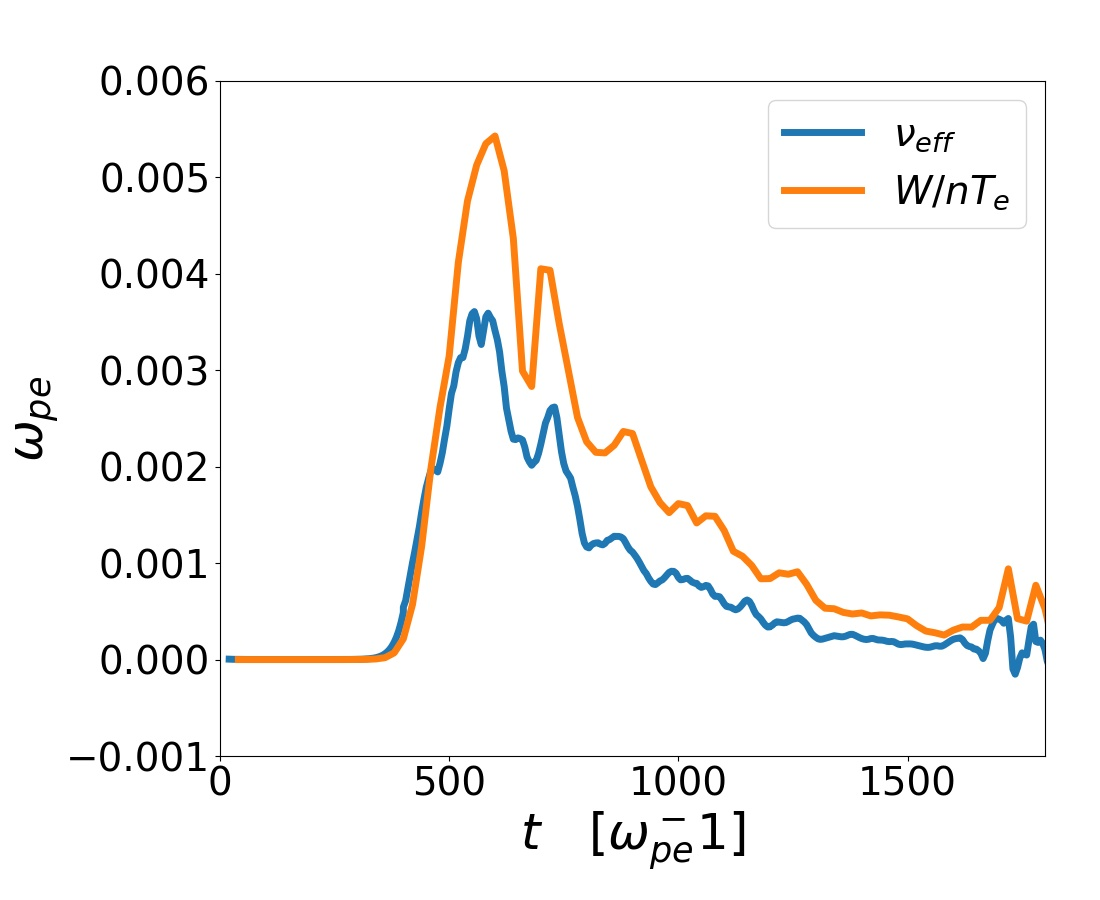
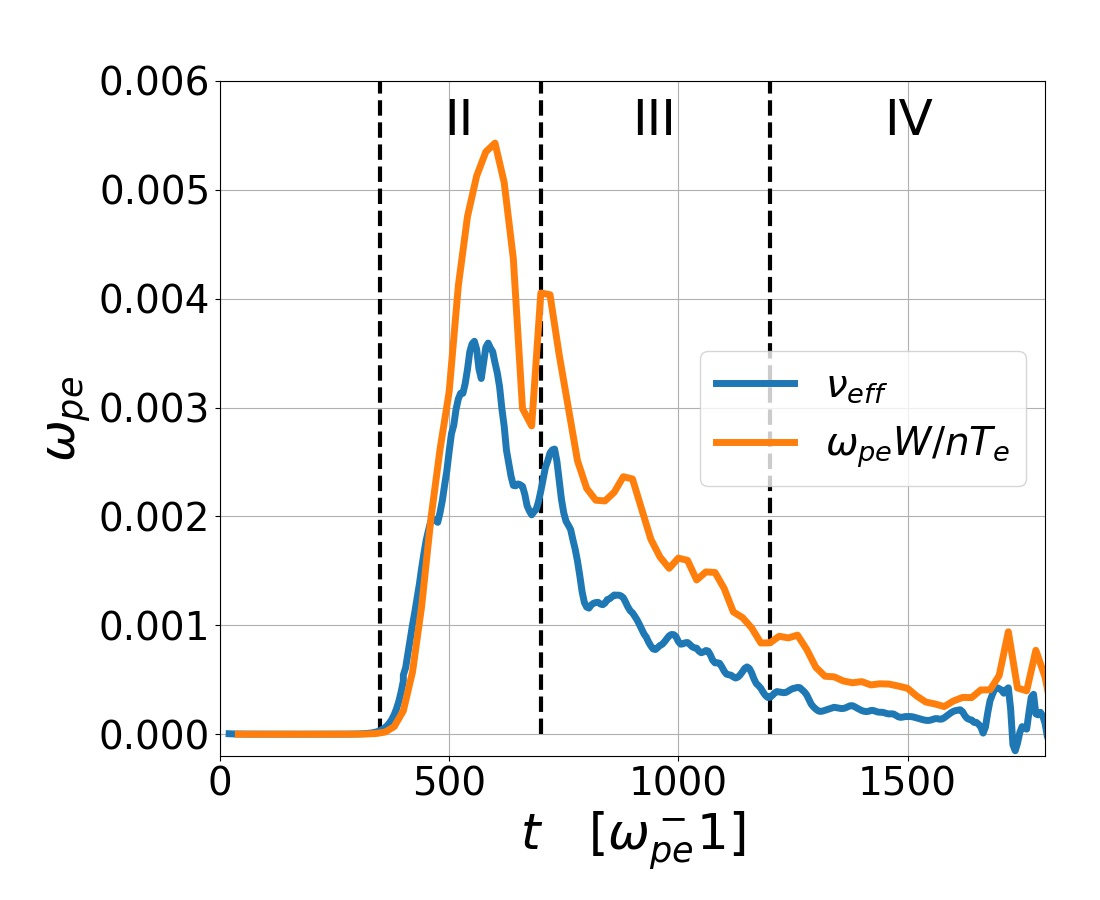
update

diff --git a/Diagnostics/local/Cori/time_trace.py b/Diagnostics/local/Cori/time_trace.py
@@ -1,5 +1,7 @@
 import matplotlib.pyplot as plt
 import numpy as np
+import matplotlib
+matplotlib.use('TkAgg')
 
 
 fieldEnergy4 = np.loadtxt('./Cori/mass25/rescheck/4/saved_data/fieldEnergy.txt')
@@ -23,24 +25,24 @@ for i in range(np.size(current4)-1):
 for i in range(np.size(current4)-1):
     nu_eff4[i] = (0.00005 - dJdt4[i]) / current4[i]
 
-fig      = plt.figure(figsize=(12.5,7.5))
-ax      = fig.add_axes([0.16, 0.16, 0.82, 0.75])
-#ax.set_title("perturbed electric field energy",fontsize=16)
-ax.plot(time_fieldEnergy4,fieldEnergy4,label='temp-50',linewidth=5)
-ax.plot(time_fieldEnergy+10,fieldEnergy,label='temp-200',linewidth=5)
-ax.set_xlabel(r'$t \quad [\omega_{pe}^-1]$',fontsize=36)
-ax.set_ylabel(r'$\epsilon_0 \int (|\delta E_z|^2 + |\delta E_y|^2) dydz / n_0 T_{e0}$',fontsize=24,color='red')
-# ax.vlines(350,0,1e-5,linestyle='--',linewidth=2,color='black')
-# ax.vlines(750,0,1e-5,linestyle='--',linewidth=2,color='black')
-# ax.vlines(1100,0,1e-5,linestyle='--',linewidth=2,color='black')
-# ax.vlines(1800,0,1e-5,linestyle='--',linewidth=2,color='black')
-ax.set_yscale('log')
-ax.set_xlim(0,700)
-ax.set_ylim(1e-11,1e-5)
-ax.tick_params(labelsize = 28)
-ax.legend(fontsize=28)
-#plt.savefig('./Cori/figure_temp/field_energy.jpg')
-plt.show()
+# fig      = plt.figure(figsize=(12.5,7.5))
+# ax      = fig.add_axes([0.16, 0.16, 0.82, 0.75])
+# #ax.set_title("perturbed electric field energy",fontsize=16)
+# ax.plot(time_fieldEnergy4,fieldEnergy4,label='temp-50',linewidth=5)
+# ax.plot(time_fieldEnergy+10,fieldEnergy,label='temp-200',linewidth=5)
+# ax.set_xlabel(r'$t \quad [\omega_{pe}^-1]$',fontsize=36)
+# ax.set_ylabel(r'$\epsilon_0 \int (|\delta E_z|^2 + |\delta E_y|^2) dydz / n_0 T_{e0}$',fontsize=24,color='red')
+# # ax.vlines(350,0,1e-5,linestyle='--',linewidth=2,color='black')
+# # ax.vlines(750,0,1e-5,linestyle='--',linewidth=2,color='black')
+# # ax.vlines(1100,0,1e-5,linestyle='--',linewidth=2,color='black')
+# # ax.vlines(1800,0,1e-5,linestyle='--',linewidth=2,color='black')
+# ax.set_yscale('log')
+# ax.set_xlim(0,700)
+# ax.set_ylim(1e-11,1e-5)
+# ax.tick_params(labelsize = 28)
+# ax.legend(fontsize=28)
+# #plt.savefig('./Cori/figure_temp/field_energy.jpg')
+# plt.show()
 # ax.legend(fontsize=14)
 # plt.savefig('./Cori/figure_temp/field_energy.jpg')
 # plt.clf()
@@ -115,42 +117,62 @@ plt.show()
 # plt.savefig('./Cori/figure_temp/current.jpg')
 # plt.clf()
 
-fig      = plt.figure(figsize=(11.0,9.0))
-ax      = fig.add_axes([0.20, 0.16, 0.75, 0.75])
-#ax.set_title("perturbed electric field energy",fontsize=16)
-ax.plot(time_current4[4:],nu_eff4[3:],label=r'$\nu_{eff}$',linewidth=5)
-ax.plot(time_fieldEnergy4[2:],fieldEnergy4[2:]/0.0008,label=r'$W/nT_e$',linewidth=5)
-ax.set_xlabel(r'$t \quad [\omega_{pe}^-1]$',fontsize=36)
-ax.set_ylabel(r'$\omega_{pe}$',fontsize=36)
-ax.tick_params(labelsize = 28)
-ax.legend(fontsize=28)
-ax.set_xlim(0,1800)
-ax.set_ylim(-0.001,0.006)
-#plt.savefig('./Cori/figure_temp/field_energy.jpg')
-plt.show()
+# fig      = plt.figure(figsize=(11.0,9.0))
+# ax      = fig.add_axes([0.20, 0.16, 0.75, 0.75])
+# #ax.set_title("perturbed electric field energy",fontsize=16)
+# ax.plot(time_current4[4:],nu_eff4[3:],label=r'$\nu_{eff}$',linewidth=5)
+# ax.plot(time_fieldEnergy4[2:],fieldEnergy4[2:]/0.0008,label=r'$\omega_{pe} W/nT_e$',linewidth=5)
+# ax.set_xlabel(r'$t \quad [\omega_{pe}^-1]$',fontsize=36)
+# ax.set_ylabel(r'$\omega_{pe}$',fontsize=36)
+# ax.tick_params(labelsize = 28)
+# ax.legend(fontsize=28,loc='center right')
+# ax.set_xlim(0,1800)
+# ax.set_ylim(-0.0002,0.006)
+# ax.grid()
+# ax.vlines(700,0,0.006,linestyles='--',linewidth=3)
+# ax.vlines(1200,0,0.006,linestyles='--',linewidth=3)
+# ax.vlines(350,0,0.006,linestyles='--',linewidth=3)
+# ax.text(490,0.0055,"II",fontsize=36)
+# ax.text(900,0.0055,"III",fontsize=36)
+# ax.text(1450,0.0055,"IV",fontsize=36)
+# plt.savefig('./Cori/figure_temp/nu_eff.jpg')
+
+# #plt.savefig('./Cori/figure_temp/field_energy.jpg')
+# plt.show()
 
 
 ###########################################################
 
-# fig      = plt.figure(figsize=(11.0,9.0))
-# ax      = fig.add_axes([0.12, 0.12, 0.75, 0.75])
-# ax2 = ax.twinx()
+fig      = plt.figure(figsize=(11.0,9.0))
+ax      = fig.add_axes([0.12, 0.16, 0.75, 0.80])
+ax2 = ax.twinx()
 
-# ax.plot(time_Elctemp4[151:400],Elctemp4[151:400]/Elctemp4[0],label='electron',linewidth=5,color='black',linestyle='-.')
-# ax.plot(time_Iontemp4[151:400],Iontemp4[151:400]/Iontemp4[0],label='ion',linewidth=5,color='black',linestyle='--')
-# #ax2.plot(time_Iontemp4[70:95],Elctemp4[70:95]/Iontemp4[70:95],linewidth=5,color='blue')
-# ax2.plot(time_Iontemp4[151:400],Elctemp4[151:400]/Iontemp4[151:400],linewidth=5,color='blue')
-# ax.set_xlabel(r'$t \quad [\omega_{pe}^-1]$',fontsize=32)
-# ax.set_ylabel(r'$T/T_{0}$',fontsize=36,color='black')
-# ax2.set_ylabel(r'$T_e/T_i$',fontsize=36,color='blue')
-# # ax.set_xlim(0,2600)
-# # ax.set_ylim(0,30)
-# ax.set_xlim(750,1800)
-# ax.set_ylim(0,18)
-# ax.tick_params(labelsize = 28)
-# ax2.tick_params(labelsize = 24,colors='blue')
-# #ax.legend(fontsize=30,loc='center right',bbox_to_anchor=(1.0, 0.3))
-# ax.legend(fontsize=30,loc='lower left')
-# #plt.savefig('./Cori/figure_temp/temp.jpg')
-# plt.show()
-# plt.clf()
+ax.plot(time_Elctemp4[:],Elctemp4[:]/Elctemp4[0],label='electron',linewidth=5,color='red',linestyle='-')
+ax.plot(time_Iontemp4[:],Iontemp4[:]/Iontemp4[0],label='ion',linewidth=5,color='red',linestyle='--')
+#ax2.plot(time_Iontemp4[70:95],Elctemp4[70:95]/Iontemp4[70:95],linewidth=5,color='blue')
+ax2.plot(time_Iontemp4[:],Elctemp4[:]/Iontemp4[:],linewidth=5,color='blue')
+ax.set_xlabel(r'$t \quad [\omega_{pe}^-1]$',fontsize=32)
+ax.set_ylabel(r'$T/T_{0}$',fontsize=36,color='red')
+ax2.set_ylabel(r'$T_e/T_i$',fontsize=36,color='blue')
+ax.set_xlim(0,2600)
+ax.set_ylim(0,30)
+ax.vlines(700,0,30,linestyles='--',linewidth=3)
+ax.vlines(1200,0,30,linestyles='--',linewidth=3)
+ax.vlines(350,0,30,linestyles='--',linewidth=3)
+ax.vlines(1850,0,30,linestyles='--',linewidth=3)
+ax.text(490,27.5,"II",fontsize=36)
+ax.text(900,27.5,"III",fontsize=36)
+ax.text(1450,27.5,"IV",fontsize=36)
+ax.text(2150,27.5,"V",fontsize=36)
+
+#ax.set_xlim(750,1800)
+#ax.set_ylim(0,18)
+ax.tick_params(labelsize = 28)
+ax.tick_params(axis='y',colors='red')
+ax2.tick_params(labelsize = 24,colors='blue')
+ax.legend(fontsize=30,loc='center right',bbox_to_anchor=(1.0, 0.3))
+ax.grid()
+#ax.legend(fontsize=30,loc='lower left')
+plt.savefig('./Cori/figure_temp/temp.jpg')
+#plt.show()
+plt.clf()

diff --git a/Diagnostics/local/Cori/distribution_plot.py b/Diagnostics/local/Cori/distribution_plot.py
@@ -6,6 +6,7 @@ from scipy.interpolate import interp1d
 from scipy.optimize import curve_fit
 from scipy.special import gamma
 import matplotlib.ticker as ticker
+matplotlib.use('TkAgg')
 
 ElcGridPath = './Cori/mass25/rescheck/4/dist_function_save/elc_velocities.npz'
 IonGridPath = './Cori/mass25/rescheck/4/dist_function_save/ion_velocities.npz'
@@ -164,20 +165,28 @@ def fit_1d(fName,GridFile):
     # popt, pcov = curve_fit(kappa_maxwellian, v_z, f_e)
     # constructed_f_e = kappa_maxwellian(v_z,*popt)
 
-    #maxw1 = np.array([maxw(x,popt[0],popt[1],popt[2]) for x in v_z])
-    #maxw2 = np.array([maxw(x,popt[3],popt[4],popt[5]) for x in v_z])
+    maxw1 = np.array([maxw(x,popt[0],popt[1],popt[2]) for x in v_z])
+    maxw2 = np.array([maxw(x,popt[3],popt[4],popt[5]) for x in v_z])
+    
 
-    maxw1 = np.array([maxw(x,1.47,0.0246,0.00) for x in v_z])
-    maxw2 = np.array([maxw(x,1.25,0.02716,0.0444) for x in v_z])
+    # maxw1 = np.array([maxw(x,1.47,0.0246,0.00) for x in v_z])
+    # maxw2 = np.array([maxw(x,1.25,0.02716,0.0444) for x in v_z])
 
-    f_e2 = np.loadtxt('./Cori/mass25/rescheck/4/dist_function_save/1700.0_elc_1d.txt')
-    maxw3 = np.array([maxw(x,1.25,0.02716,0.0444+0.005) for x in v_z])
-    plt.plot(v_z,f_e2)
+    #f_e2 = np.loadtxt('./Cori/mass25/rescheck/4/dist_function_save/600.0_elc_1d.txt')
+    #maxw3 = np.array([maxw(x,1.25,0.02716,0.0444+0.005) for x in v_z])
+    fig      = plt.figure(figsize=(12.5,7.5))
+    fig.add_axes([0.1, 0.16, 0.8, 0.8])
+    plt.plot(v_z/0.02,f_e, linewidth=8,label=r'$F_e(v_z)(t=600)$')
+    #plt.vlines(0.005/0.02,0,50,color='black',linewidth=4, linestyles='--',label=r'$c_s$')
     #plt.plot(v_z,constructed_f_e,label='fit')
-    plt.plot(v_z,maxw1,label='1',linestyle='--')
-    plt.plot(v_z,maxw3,label='2',linestyle='--')
-    plt.plot(v_z,maxw3+maxw1,label='fit',linestyle='--')
-    plt.legend()
+    plt.plot(v_z/0.02,maxw1,label='bulk',linestyle='--',linewidth=5)
+    plt.plot(v_z/0.02,maxw2,label='tail',linestyle='--',linewidth=5)
+    plt.plot(v_z/0.02,maxw2+maxw1,label='bulk+tail',linestyle='--',linewidth=5)
+    plt.grid()
+    plt.xlim(-4,8)
+    plt.legend(fontsize=28,loc='upper right')
+    plt.xlabel(r'$v_z/v_{Te0}$',fontsize=28)
+    plt.tick_params(labelsize = 24)
     plt.show()
 
     print(popt)
@@ -194,28 +203,6 @@ def fit_1d(fName,GridFile):
     # plt.legend()
     # plt.show()
     return constructed_f_e, maxw1, maxw2
-    # if popt[2] < popt[5]:
-    #     print('==========Maxwell 1=========')
-    #     print("Norm:",popt[0])
-    #     print("Vte",popt[1])
-    #     print("Drift",popt[2])
-    #     print('==========Maxwell 2=========')
-    #     print("Norm:",popt[3])
-    #     print("Vte",popt[4])
-    #     print("Drift",popt[5])
-    #     print("")
-    #     print("ratio:",popt[3]/popt[0])
-    # else:
-    #     print('==========Maxwell 1=========')
-    #     print("Norm:",popt[3])
-    #     print("Vte",popt[4])
-    #     print("Drift",popt[5])
-    #     print('==========Maxwell 2=========')
-    #     print("Norm:",popt[0])
-    #     print("Vte",popt[1])
-    #     print("Drift",popt[2])
-    #     print("")
-    #     print("ratio:",popt[0]/popt[3])
 
 def fit_1d_t(fName,GridFile):
     def double_maxwellian(x,A1,B1,C1,A2,B2,C2):
@@ -356,11 +343,11 @@ if __name__ == '__main__':
     #new_1d('./Cori/mass25/rescheck/4/dist_function/1800.0_elc_2d.txt',ElcGridPath)
     #plot_1d_distribution('./Cori/mass25/rescheck/4/dist_function_save/1700.0_elc_1d.txt', ElcGridPath)
     #ion_main()
-    elc_main()
+    #elc_main()
 
     #popt = fit_1d('./Cori/mass25/rescheck/4/dist_function/650.0_elc_1d.txt',ElcGridPath)
-    #fit_1d('./Cori/mass25/rescheck/4/dist_function_save/1700.0_elc_1d.txt',ElcGridPath)
-    # fit_1d_t('./Cori/mass25/rescheck/4/dist_function_save/1800.0_elc_1d.txt',ElcGridPath)
+    fit_1d('./Cori/mass25/rescheck/4/dist_function_save/1800.0_elc_1d.txt',ElcGridPath)
+    fit_1d_t('./Cori/mass25/rescheck/4/dist_function_save/1800.0_elc_1d.txt',ElcGridPath)
     # fit_1d_t('./Cori/mass25/rescheck/4/dist_function/700.0_elc_1d.txt',ElcGridPath)
     # fit_1d_t('./Cori/mass25/rescheck/4/dist_function/750.0_elc_1d.txt',ElcGridPath)
     # fit_1d_t('./Cori/mass25/rescheck/4/dist_function/900.0_elc_1d.txt',ElcGridPath)

diff --git a/Diagnostics/local/Cori/field.py b/Diagnostics/local/Cori/field.py
@@ -135,13 +135,13 @@ def k_omega():
 
     #Ez1 = np.transpose(Ey[:800,:,12])
     #Ez1fft = np.fft.fftshift(np.fft.rfft2(Ez1))
-    Ez = np.transpose(Ez0[400:1200,:,0]) # 48 x 400
+    Ez = np.transpose(Ez0[3000:3600,:,0]) # 48 x 400
     Ezw = np.fft.rfft2(Ez) # 48 x 400
     Ezw2 = np.zeros_like(Ezw)
     for i in range(Ezw.shape[1]):
         Ezw2[:,i] = np.fft.fftshift(Ezw[:,i])
     absEzw = np.power(np.absolute(Ezw2),2)[:,:]  
-    omegas = np.fft.rfftfreq(800,d=(400)/(800-1)) * 2.0 * np.pi
+    omegas = np.fft.rfftfreq(600,d=(300)/(600-1)) * 2.0 * np.pi
     ks = np.linspace(-24,23,48)
 
     k_list_25 = 2*np.pi*np.array([0, 0.3183, 1,      2,      4,     6,    8,     10,    12,     16,     18])
@@ -149,7 +149,7 @@ def k_omega():
     omega_list_25 =     np.array([0, 0.00835,0.0261, 0.051,  0.0946,0.128,0.153, 0.1718,0.187,  0.2122, 0.2237])
     f_25 = interp1d(k_list_25, gamma_list_25, kind='cubic')
     fw_25 = interp1d(k_list_25, omega_list_25, kind='cubic')
-    k_sample_25 = np.arange(0.1,113,0.1)
+    k_sample_25 = np.arange(0.1,36,0.1)
     gamma_sample_25 = f_25(k_sample_25)
     omega_sample_25 = fw_25(k_sample_25)
 
@@ -166,12 +166,13 @@ def k_omega():
     #plt.clim(vmin=-10,vmax=30)
     levels = np.linspace(-3,3,21)
     pos = ax.contourf(zz,yy,absEzw[:,:100],levels=levels)
-    ax.plot(-k_sample_25/2/np.pi, omega_sample_25,linewidth=4, color='blue',linestyle='--')
-    #ax.plot(-k_sample_25/2/np.pi, k_sample_25/2/np.pi * 0.135,linewidth=4, color='blue',linestyle='--')
+    #ax.plot(-k_sample_25/2/np.pi, omega_sample_25,linewidth=5, color='red',linestyle='--')
+    ax.plot(-k_sample_25/2/np.pi, k_sample_25/2/np.pi * 0.15,linewidth=5, color='red',linestyle='--')
     ax.set_xlabel(r'$kd_e/2\pi$',fontsize=32)
     ax.set_ylabel(r'$\omega/\omega_{pe}$',fontsize=32)
     #ax.text(-2,0.7,r'$\frac{\omega}{k} = 1.2v_{Te}$',fontsize=36,color='white')
     #plt.show()
+    ax.set_xlim(-20,20)
     ax.tick_params(labelsize = 26)
     fig.colorbar(pos,ax=ax)
     plt.savefig('./out.jpg')
